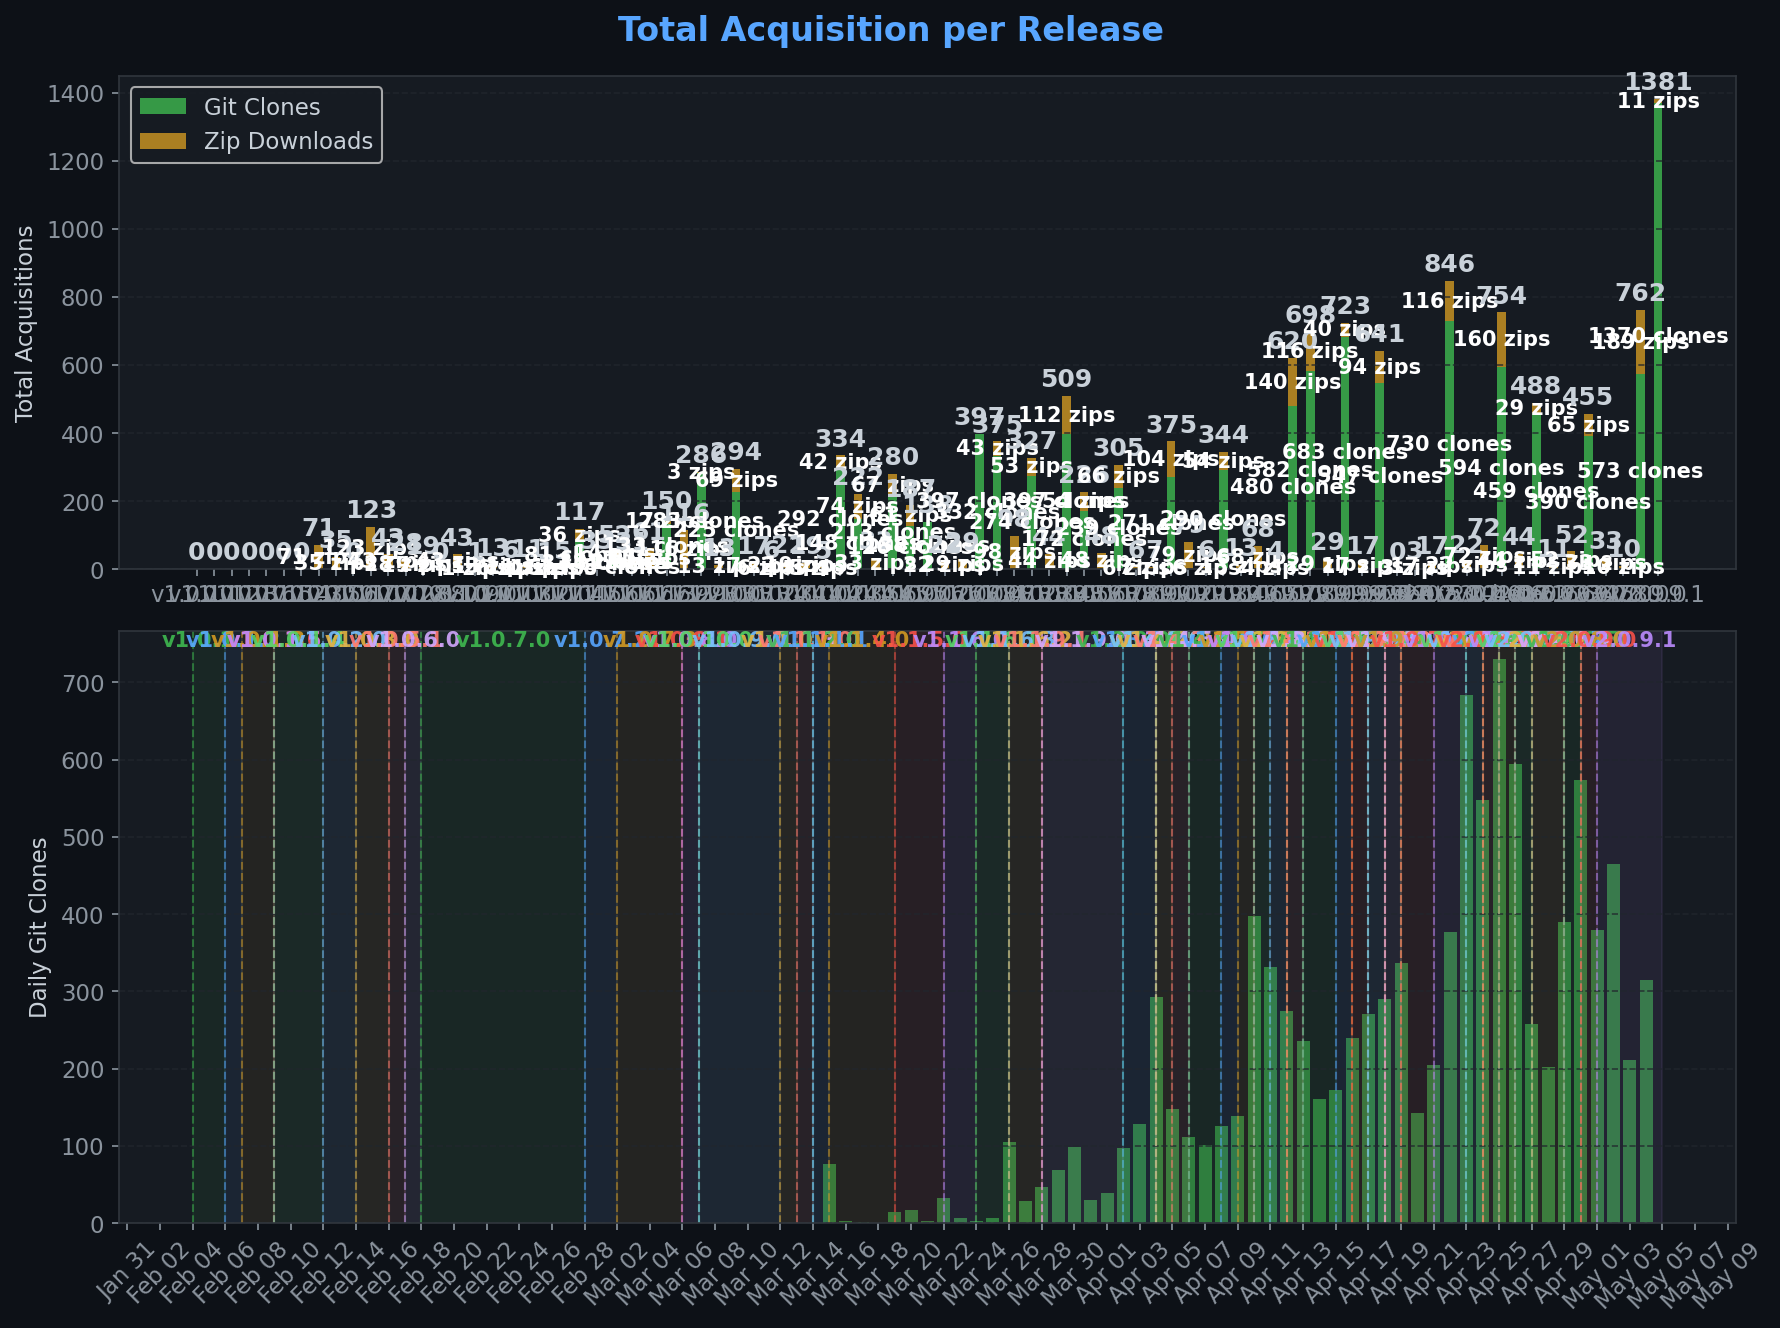
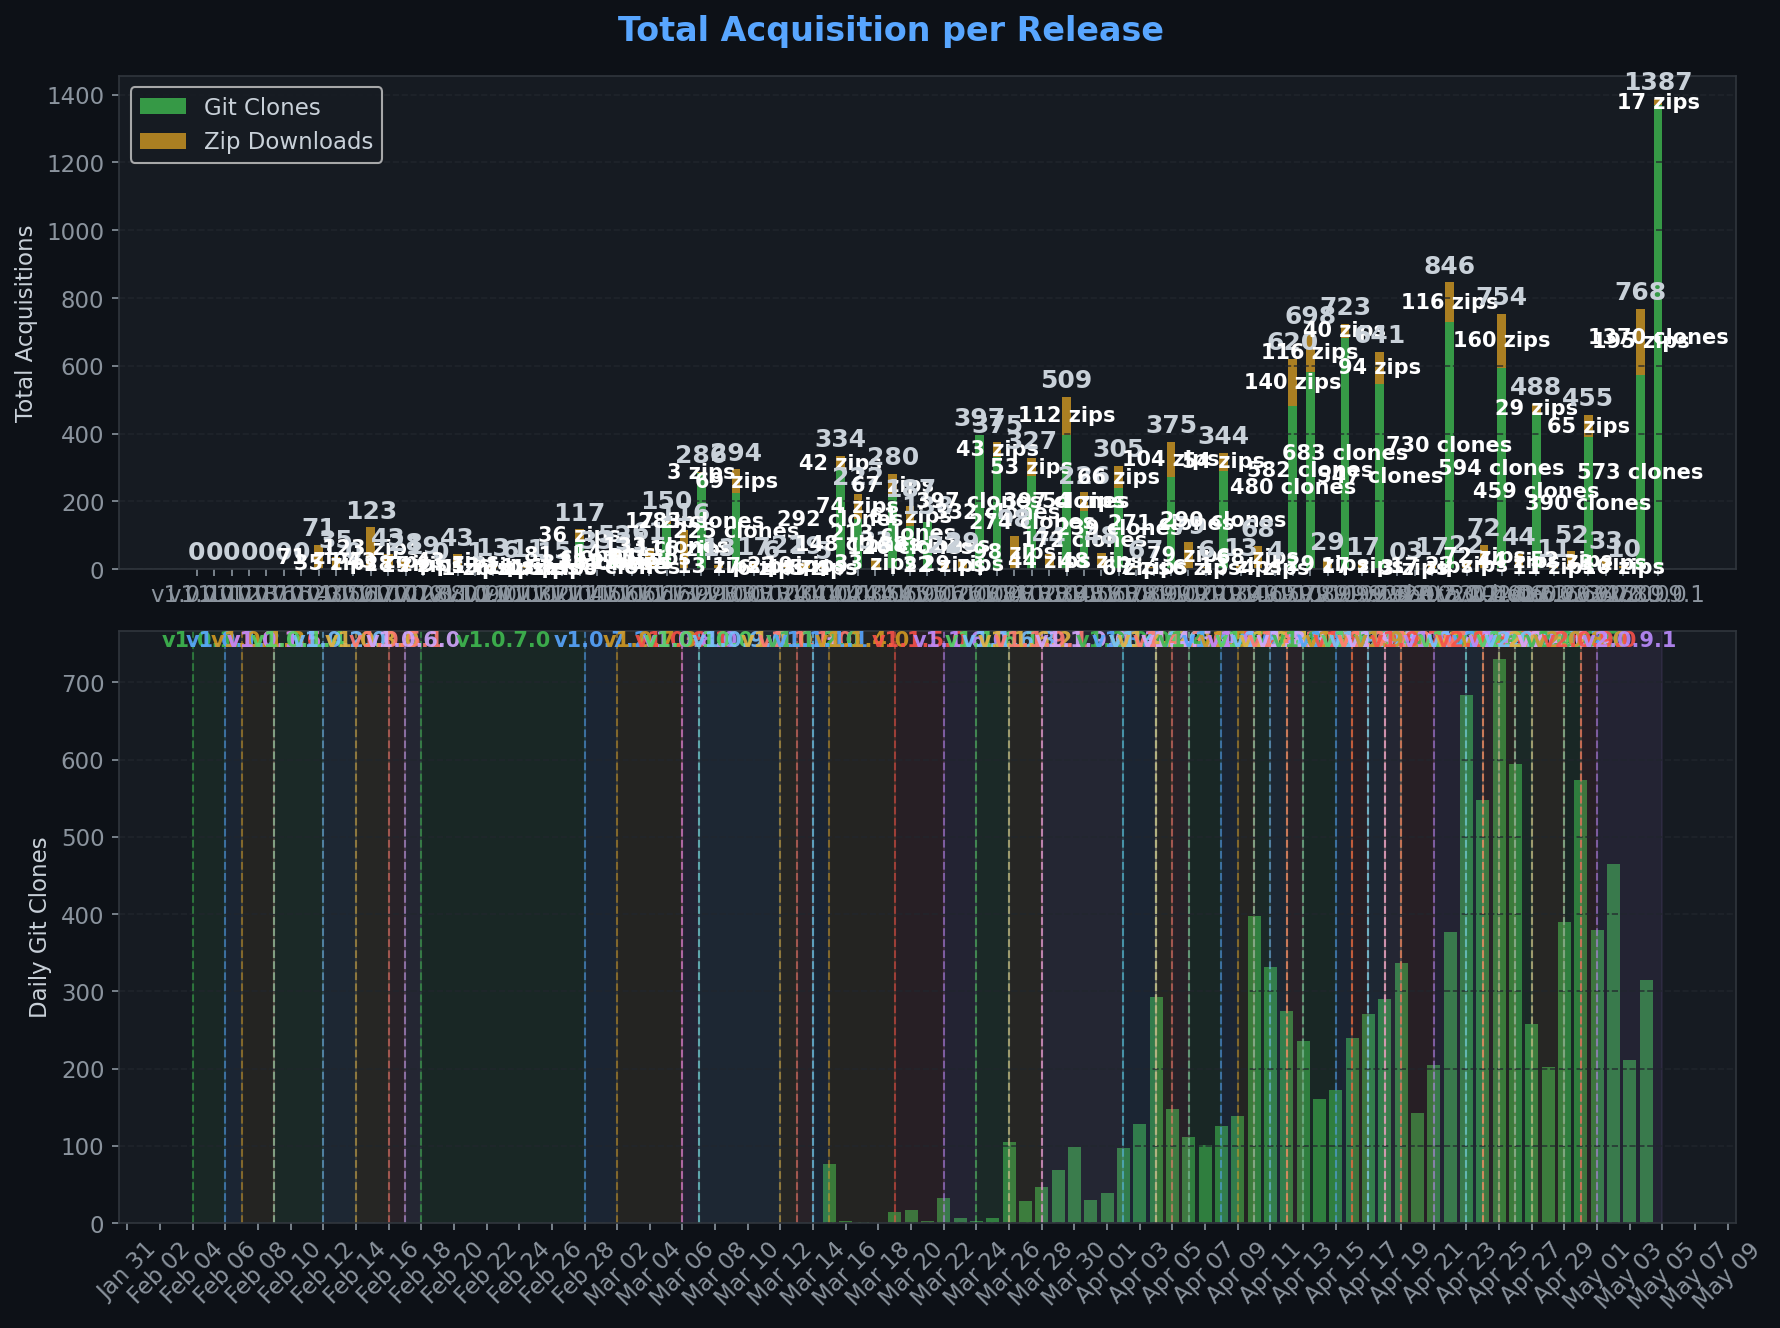
chore: Full traffic snapshot 2026-05-05_18:14

diff --git a/.github/traffic/SUMMARY.md b/.github/traffic/SUMMARY.md
@@ -1,7 +1,7 @@
 # Repository Traffic Dashboard
 
-**Last updated:** 2026-05-05T06:22:36Z
-**Days tracked:** 29 | **Download snapshots:** 442 (hourly)
+**Last updated:** 2026-05-05T18:14:45Z
+**Days tracked:** 29 | **Download snapshots:** 446 (hourly)
 
 ---
 
@@ -30,9 +30,9 @@
 
 ![Conversion](charts/conversion.png)
 
-> **14-day conversion:** 3181 of 1031 visitors cloned or downloaded (**308.5%**)
+> **14-day conversion:** 3193 of 1031 visitors cloned or downloaded (**309.6%**)
 >
-> Unique cloners: 1573 | Release downloads: 1608
+> Unique cloners: 1573 | Release downloads: 1620
 
 ---
 
@@ -42,9 +42,9 @@
 
 | Channel | Count |
 |---------|-------|
-| Zip Downloads | 1608 |
+| Zip Downloads | 1620 |
 | Git Clones (14-day) | 5928 |
-| **Total Acquisitions** | **7536** |
+| **Total Acquisitions** | **7548** |
 
 ---
 
